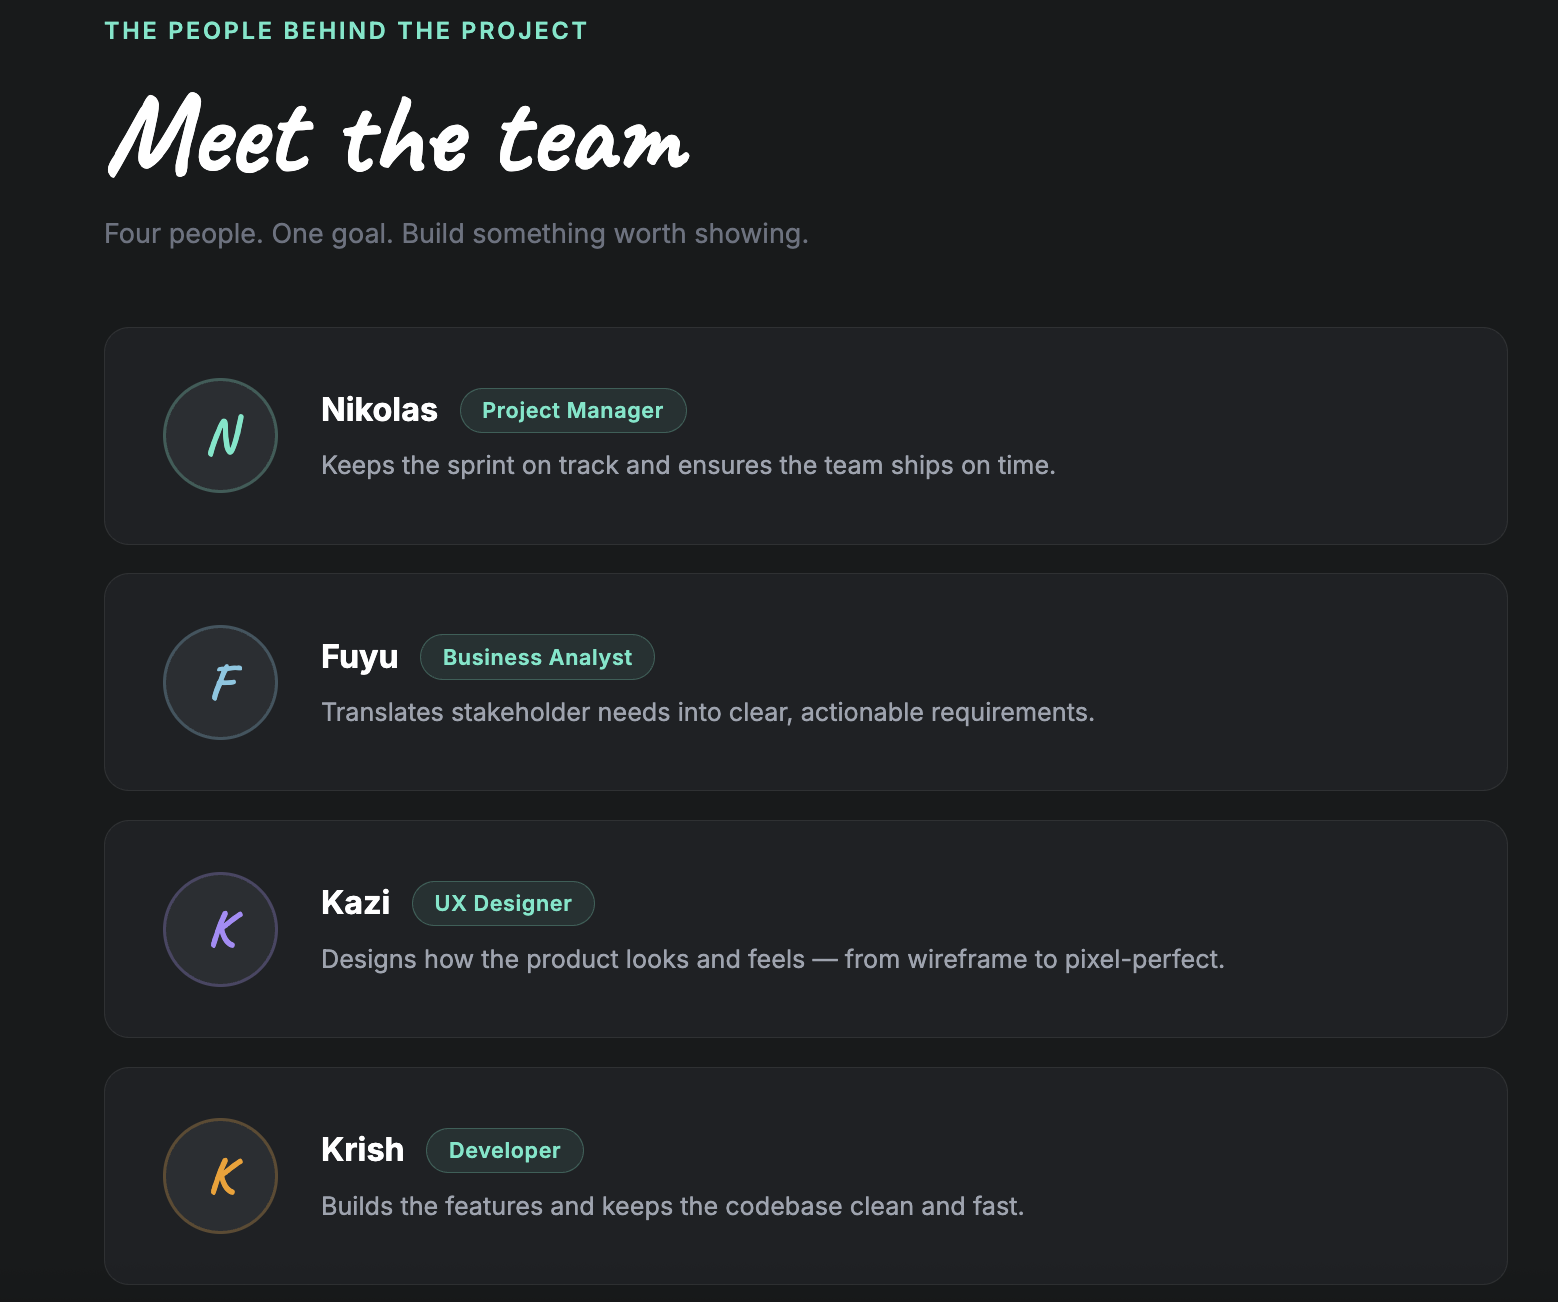
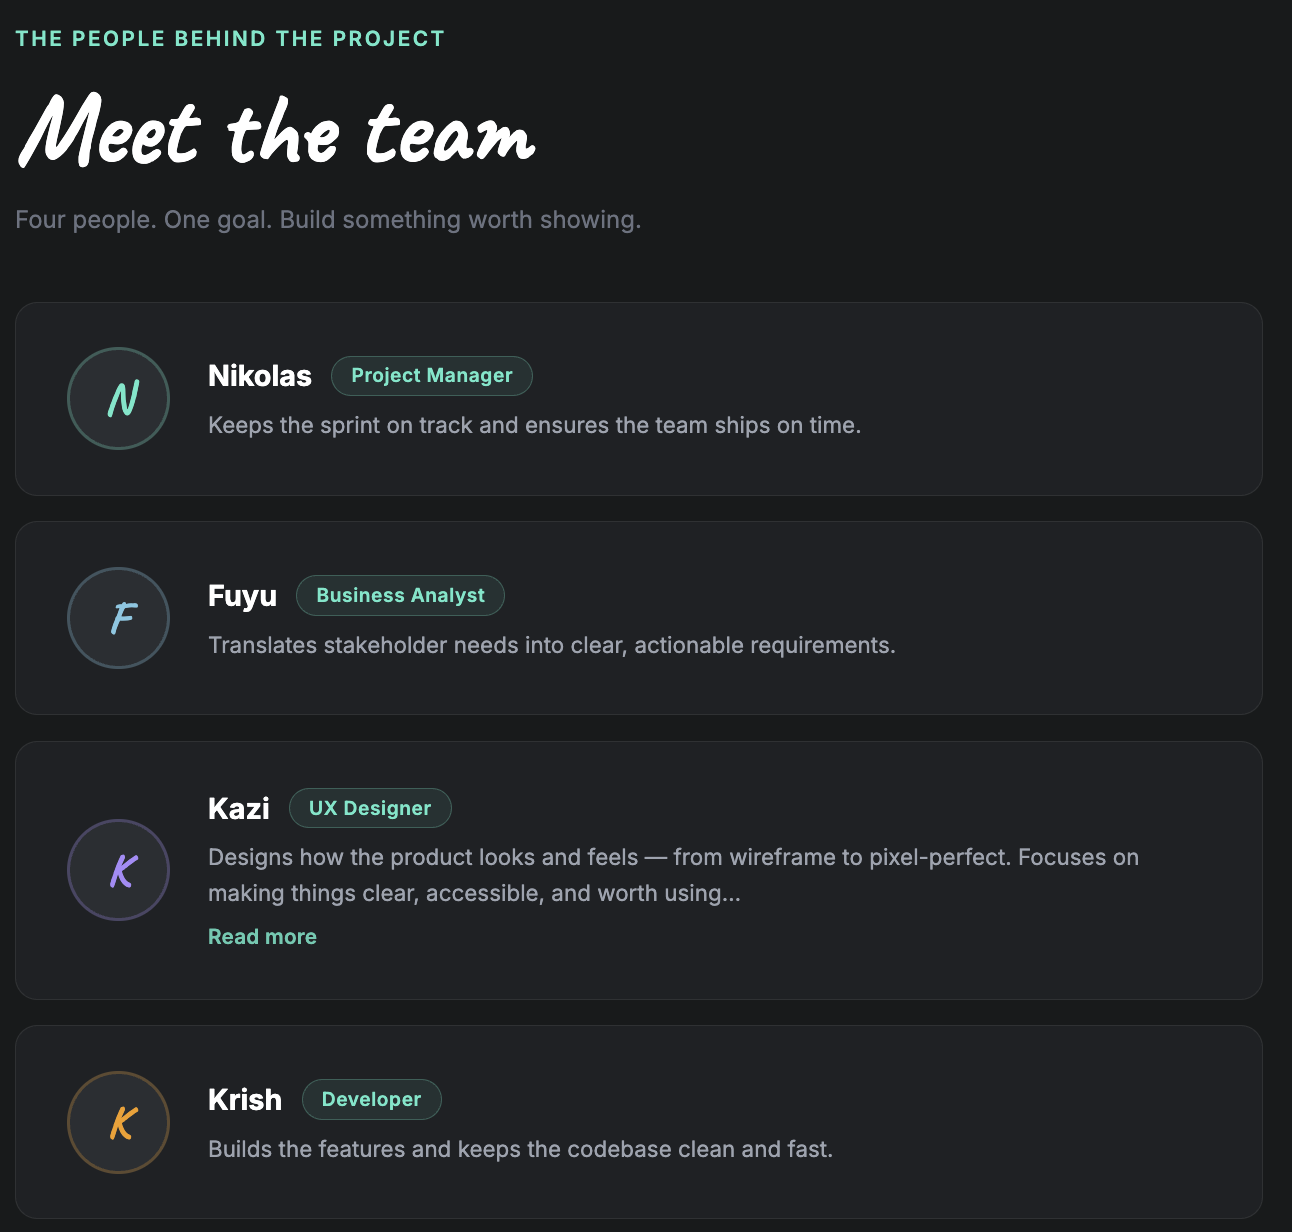
design: add read more toggle for long blurbs per BA feedback

diff --git a/docs/UX-DESIGN.md b/docs/UX-DESIGN.md
@@ -150,3 +150,36 @@ Directly addressing the "Edge Cases" section of Fuyu's requirements:
 - [ ] Document updated
 
 The final tick happens after Fuyu confirms the design meets her requirements. The card then moves to the Reviewing bucket for Dev pickup.
+
+---
+
+## Update — Read more pattern for long blurbs
+
+**Added:** 15 August 2026, following BA feedback (Fuyu)
+
+The original design let long blurbs wrap freely inside their card. That works for length but produces uneven card heights when one member has a lot to say and the rest are short — the roster starts to look ragged and the eye gets pulled to the longest card.
+
+To keep the row rhythm consistent, blurbs now truncate at ~2 lines with a **"Read more"** link when they exceed that length.
+
+### Behaviour
+
+- Blurbs at or under ~2 lines render as-is. No toggle appears.
+- Blurbs longer than that are visually clipped at 2 lines with an ellipsis (`…`).
+- A small **Read more** link appears directly under the truncated text, styled in the same teal accent as other interactive links.
+- Clicking **Read more** expands the blurb inline (no modal, no page shift). The link swaps to **Show less** in the same position, so users can collapse it again.
+
+### Why this shape
+
+- Inline expansion keeps focus on the person the user is reading about. A modal would break flow for a small piece of copy.
+- Card-level truncation (not word-count truncation) means the pattern only triggers when the layout actually needs it — short bios stay untouched.
+- Reusing the teal accent keeps the interactive vocabulary consistent with the login page's "Create an account" link and the primary CTA styling.
+
+### Where it appears in the mockup
+
+Only Kazi's card (UX Designer) currently shows the truncation state, since the other three blurbs are within the 2-line limit. This is deliberate — it demonstrates the pattern without cluttering every card, and reflects how the pattern will behave in production: it only exists when it needs to.
+
+### Edge cases covered by this addition
+
+- **Very long blurbs** — no longer push card heights out of balance.
+- **Short blurbs** — untouched, no unnecessary UI added.
+- **Mixed lengths across the roster** — cards stay visually aligned in the collapsed state; the expanded state grows only the card in question, without shifting neighbours in the list layout.
